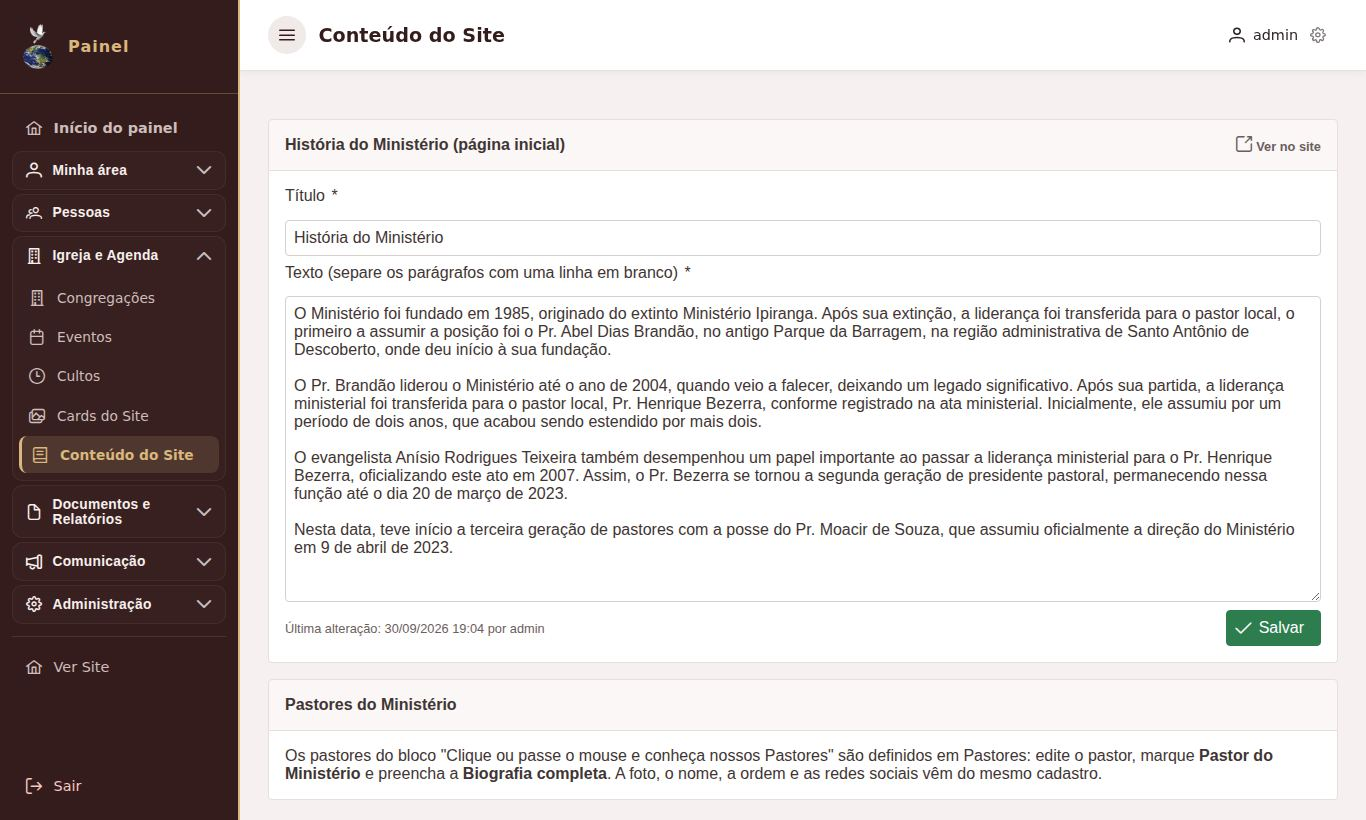
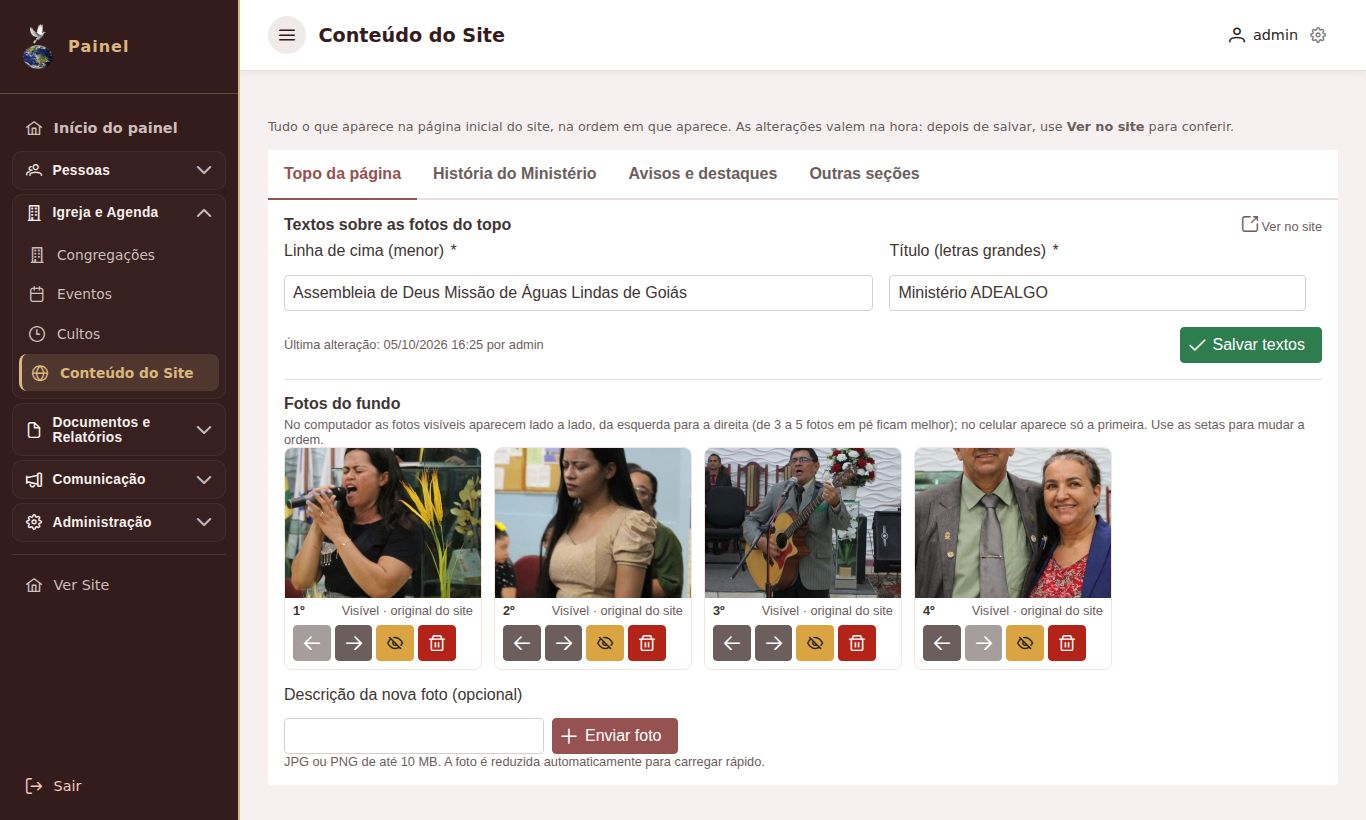
Atualiza a apresentação (origem: ministerio@96cfd4a)

diff --git a/README.md b/README.md
@@ -28,13 +28,19 @@ Sistema da **Assembleia de Deus Missão de Águas Lindas de Goiás (ADEALGO)**, 
 
 ### Página inicial
 
-O banner mostra fotos da igreja sob um degradê e dois botões: "Faça parte da família" e "Encontre uma congregação".
+O banner mostra fotos da igreja sob um degradê e dois botões: "Faça parte da família" e "Encontre uma congregação". O título, a linha de cima e as fotos do fundo são editáveis pelo painel, em **Conteúdo do Site**.
 
 ![Página inicial](docs/telas/01-site-inicio.jpg)
 
+### Avisos e destaques
+
+Logo abaixo do topo aparecem os avisos cadastrados no painel, com imagem, texto e botão opcionais. Cada aviso pode ter um período para aparecer (por exemplo, só na semana do evento). Sem nenhum aviso vigente, a seção não aparece.
+
+![Avisos e destaques](docs/telas/01b-site-avisos.jpg)
+
 ### História do Ministério
 
-O texto é editável pelo painel, em **Conteúdo do Site**.
+O texto e as fotos que passam ao lado dele são editáveis pelo painel, em **Conteúdo do Site**.
 
 ![História do Ministério](docs/telas/02-site-historia.jpg)
 
@@ -139,19 +145,26 @@ Congregações com endereço e coordenadas para o mapa. Eventos com banner, tipo
 |---|---|
 | ![Congregações](docs/telas/17-admin-congregacoes.jpg) | ![Eventos](docs/telas/18-admin-eventos.jpg) |
 
-#### Cultos e cards do site
+#### Cultos
 
-Agenda semanal de cultos de cada congregação e cards de destaque do site.
+Agenda semanal de cultos de cada congregação.
 
-| Cultos | Cards do site |
-|---|---|
-| ![Cultos](docs/telas/19-admin-cultos.jpg) | ![Cards](docs/telas/20-admin-cards.jpg) |
+![Cultos](docs/telas/19-admin-cultos.jpg)
 
 ### Conteúdo do site
 
-Edição da **História do Ministério** exibida na página inicial. Os parágrafos são separados por uma linha em branco. A tela mostra quem fez a última alteração e quando.
+Tudo o que aparece na página inicial fica em um só lugar, em abas na ordem da página:
 
-![Conteúdo do site](docs/telas/21-admin-conteudo-site.jpg)
+- **Topo da página**: título, linha de cima e fotos do fundo. As fotos podem ser enviadas, reordenadas, ocultadas ou removidas; no celular aparece só a primeira.
+- **História do Ministério**: texto (parágrafos separados por uma linha em branco) e as fotos de rolagem ao lado dele.
+- **Avisos e destaques**: avisos com imagem, link, ordem e período. A lista mostra se cada um está no site, agendado, encerrado ou oculto.
+- **Outras seções**: atalhos para os cadastros que alimentam o resto da página (Pastores, Cultos, Eventos e Congregações).
+
+As fotos enviadas são convertidas para JPEG e reduzidas automaticamente, para o site carregar rápido. Cada seção mantém pelo menos uma foto visível. A tela mostra quem fez a última alteração e quando.
+
+| Topo da página | Avisos e destaques |
+|---|---|
+| ![Conteúdo do site](docs/telas/21-admin-conteudo-site.jpg) | ![Avisos e destaques](docs/telas/20-admin-avisos.jpg) |
 
 ### Documentos, carteirinhas e relatórios
 
